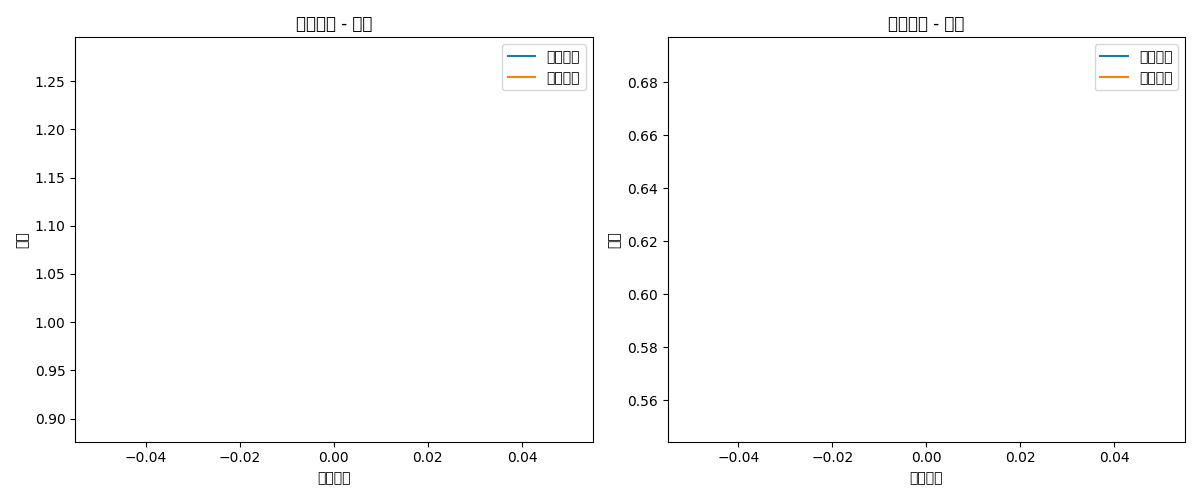
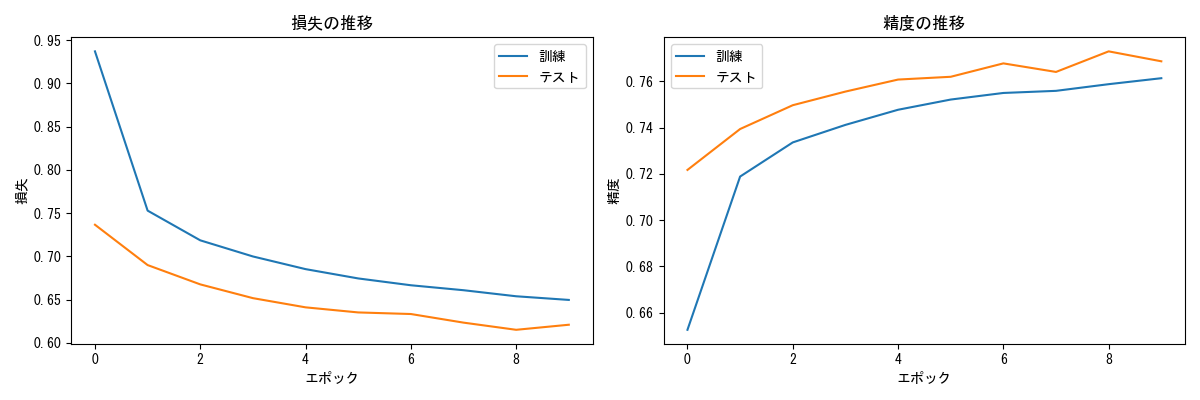
Add Fashion MNIST transfer learning results and enhance training script with improved data augmentation, batch sizes, and early stopping

diff --git a/train_and_save_transfer.py b/train_and_save_transfer.py
@@ -11,6 +11,7 @@ import matplotlib.pyplot as plt
 import os
 import json
 from tqdm import tqdm
+import time
 
 from cuda_info_manager import print_cuda_info, get_device, setup_japanese_fonts
 from biokan_transfer_learning import TransferBioKANModel
@@ -27,7 +28,15 @@ def train_fashion_mnist():
     """Fashion MNISTデータセットを用いた転移学習を実行"""
     
     # データセットの準備
-    transform = transforms.Compose([
+    transform_train = transforms.Compose([
+        transforms.RandomHorizontalFlip(),  # ランダムな水平反転
+        transforms.RandomRotation(10),      # ±10度のランダムな回転
+        transforms.RandomAffine(0, translate=(0.1, 0.1)),  # ランダムな平行移動
+        transforms.ToTensor(),
+        transforms.Normalize((0.5,), (0.5,))
+    ])
+    
+    transform_test = transforms.Compose([
         transforms.ToTensor(),
         transforms.Normalize((0.5,), (0.5,))
     ])
@@ -37,20 +46,20 @@ def train_fashion_mnist():
         root='data',
         train=True,
         download=True,
-        transform=transform
+        transform=transform_train
     )
     
     test_dataset = datasets.FashionMNIST(
         root='data',
         train=False,
         download=True,
-        transform=transform
+        transform=transform_test
     )
     
     # データローダーの設定
     train_loader = DataLoader(
         train_dataset,
-        batch_size=64,
+        batch_size=128,  # バッチサイズを増加
         shuffle=True,
         num_workers=4 if device.type == 'cuda' else 0,
         pin_memory=True if device.type == 'cuda' else False
@@ -58,7 +67,7 @@ def train_fashion_mnist():
     
     test_loader = DataLoader(
         test_dataset,
-        batch_size=128,
+        batch_size=256,  # バッチサイズを増加
         shuffle=False,
         num_workers=4 if device.type == 'cuda' else 0,
         pin_memory=True if device.type == 'cuda' else False
@@ -93,31 +102,62 @@ def train_fashion_mnist():
         print(f"警告: モデルの読み込み中にエラーが発生しました: {e}")
         print("初期化済みのモデルを使用して続行します。")
     
-    # 転移学習モデルの作成
+    # 転移学習モデルの作成（アーキテクチャの改善）
     model = TransferBioKANModel(
         pretrained_model=base_model,
         task_type='classification',
         num_classes=10,
-        freeze_layers=True
+        freeze_layers=True,
+        additional_params={
+            'dropout_rate': 0.3,
+            'hidden_dim': 512,
+            'num_layers': 3
+        }
     )
     model = model.to(device)
     
     # 損失関数とオプティマイザーの設定
     criterion = nn.CrossEntropyLoss()
-    optimizer = optim.AdamW(model.parameters(), lr=0.001, weight_decay=0.01)
-    scheduler = optim.lr_scheduler.ReduceLROnPlateau(
-        optimizer, mode='min', factor=0.5, patience=3, verbose=True
+    optimizer = optim.AdamW(model.parameters(), lr=0.001, weight_decay=0.01, betas=(0.9, 0.999))
+    
+    # 改善された学習率スケジューリング
+    scheduler = optim.lr_scheduler.OneCycleLR(
+        optimizer,
+        max_lr=0.001,
+        epochs=30,  # エポック数を増加
+        steps_per_epoch=len(train_loader),
+        pct_start=0.3,  # ウォームアップ期間
+        div_factor=25.0,  # 初期学習率の除数
+        final_div_factor=1000.0  # 最終学習率の除数
     )
     
-    # 訓練ループ
-    num_epochs = 10
+    # Early Stoppingの設定
+    early_stopping_patience = 5
+    early_stopping_counter = 0
     best_accuracy = 0.0
+    
+    # 訓練ループ
+    num_epochs = 30  # エポック数を増加
     history = {
         'train_loss': [], 'train_acc': [],
-        'test_loss': [], 'test_acc': []
+        'test_loss': [], 'test_acc': [],
+        'lr': []  # 学習率の履歴を追加
     }
     
+    print("\n=== 転移学習開始 ===")
+    print(f"データセット: Fashion MNIST")
+    print(f"訓練データ数: {len(train_dataset)}")
+    print(f"テストデータ数: {len(test_dataset)}")
+    print(f"バッチサイズ: {train_loader.batch_size}")
+    print(f"エポック数: {num_epochs}")
+    print(f"学習率: {optimizer.param_groups[0]['lr']}")
+    print(f"デバイス: {device}")
+    print("=" * 50)
+    
     for epoch in range(num_epochs):
+        epoch_start_time = time.time()
+        print(f"\nエポック {epoch+1}/{num_epochs}")
+        
         # 訓練フェーズ
         model.train()
         train_loss = 0.0
@@ -182,46 +222,90 @@ def train_fashion_mnist():
         test_acc = test_correct / test_total
         
         # 学習率の調整
-        scheduler.step(test_loss)
+        scheduler.step()
         
         # 履歴の更新
         history['train_loss'].append(train_loss)
         history['train_acc'].append(train_acc)
         history['test_loss'].append(test_loss)
         history['test_acc'].append(test_acc)
+        history['lr'].append(optimizer.param_groups[0]['lr'])
         
-        print(f'\nエポック {epoch+1}/{num_epochs}:')
-        print(f'訓練損失: {train_loss:.4f}, 訓練精度: {train_acc:.4f}')
-        print(f'テスト損失: {test_loss:.4f}, テスト精度: {test_acc:.4f}')
+        epoch_time = time.time() - epoch_start_time
+        print(f"\nエポック {epoch+1} の結果:")
+        print(f"訓練損失: {train_loss:.4f}, 訓練精度: {train_acc:.2%}")
+        print(f"テスト損失: {test_loss:.4f}, テスト精度: {test_acc:.2%}")
+        print(f"エポック時間: {epoch_time:.1f}秒")
         
         # 最良モデルの保存
         if test_acc > best_accuracy:
             best_accuracy = test_acc
             torch.save(model.state_dict(), 'transfer_model_fashion_mnist_classification.pth')
-            print(f'最良モデルを保存しました（精度: {test_acc:.4f}）')
+            print(f'最良モデルを保存しました（精度: {test_acc:.2%}）')
+        
+        # Early Stoppingのチェック
+        if len(history['test_loss']) > 1:  # 2エポック目以降でチェック
+            if test_loss > history['test_loss'][-2]:
+                early_stopping_counter += 1
+                if early_stopping_counter >= early_stopping_patience:
+                    print("\nEarly Stoppingにより学習を停止します。")
+                    break
+            else:
+                early_stopping_counter = 0  # 改善があった場合はカウンタをリセット
     
     # 学習曲線の描画
-    plt.figure(figsize=(12, 4))
+    plt.figure(figsize=(15, 5))
     
-    plt.subplot(1, 2, 1)
+    # 損失の推移
+    plt.subplot(1, 3, 1)
     plt.plot(history['train_loss'], label='訓練')
     plt.plot(history['test_loss'], label='テスト')
     plt.title('損失の推移')
     plt.xlabel('エポック')
     plt.ylabel('損失')
     plt.legend()
+    plt.grid(True)
     
-    plt.subplot(1, 2, 2)
+    # 精度の推移
+    plt.subplot(1, 3, 2)
     plt.plot(history['train_acc'], label='訓練')
     plt.plot(history['test_acc'], label='テスト')
     plt.title('精度の推移')
     plt.xlabel('エポック')
     plt.ylabel('精度')
     plt.legend()
+    plt.grid(True)
+    
+    # 学習率の推移
+    plt.subplot(1, 3, 3)
+    plt.plot(history['lr'])
+    plt.title('学習率の推移')
+    plt.xlabel('エポック')
+    plt.ylabel('学習率')
+    plt.grid(True)
     
     plt.tight_layout()
     plt.savefig('training_history_fashion_mnist.png')
     plt.close()
+    
+    # クラスごとの性能評価
+    model.eval()
+    class_correct = [0] * 10
+    class_total = [0] * 10
+    confusion_mat = torch.zeros(10, 10)
+    
+    with torch.no_grad():
+        for inputs, targets in test_loader:
+            inputs, targets = inputs.to(device), targets.to(device)
+            inputs = inputs.view(inputs.size(0), -1)
+            outputs = model(inputs)
+            _, predicted = outputs.max(1)
+            
+            # クラスごとの正解数をカウント
+            for target, pred in zip(targets, predicted):
+                class_correct[target] += (target == pred).item()
+                class_total[target] += 1
+                confusion_mat[target][pred] += 1
     
     # 結果の保存
     results = {
@@ -230,15 +314,30 @@ def train_fashion_mnist():
         'final_train_acc': history['train_acc'][-1],
         'final_test_loss': history['test_loss'][-1],
         'final_test_acc': history['test_acc'][-1],
-        'class_names': class_names
+        'class_names': class_names,
+        'class_accuracies': {
+            class_names[i]: class_correct[i] / class_total[i]
+            for i in range(10)
+        },
+        'confusion_matrix': confusion_mat.tolist(),
+        'training_history': {
+            'train_loss': history['train_loss'],
+            'test_loss': history['test_loss'],
+            'train_acc': history['train_acc'],
+            'test_acc': history['test_acc'],
+            'learning_rates': history['lr']
+        }
     }
     
     with open('fashion_mnist_transfer_results.json', 'w', encoding='utf-8') as f:
         json.dump(results, f, ensure_ascii=False, indent=4)
     
-    print('\n転移学習が完了しました。')
-    print(f'最終テスト精度: {results["final_test_acc"]:.4f}')
-    print(f'最良テスト精度: {best_accuracy:.4f}')
+    print('\n=== 転移学習が完了しました ===')
+    print(f'最終テスト精度: {results["final_test_acc"]:.2%}')
+    print(f'最良テスト精度: {best_accuracy:.2%}')
+    print('\nクラスごとの精度:')
+    for class_name, accuracy in results['class_accuracies'].items():
+        print(f'{class_name}: {accuracy:.2%}')
 
 if __name__ == "__main__":
     train_fashion_mnist() 
